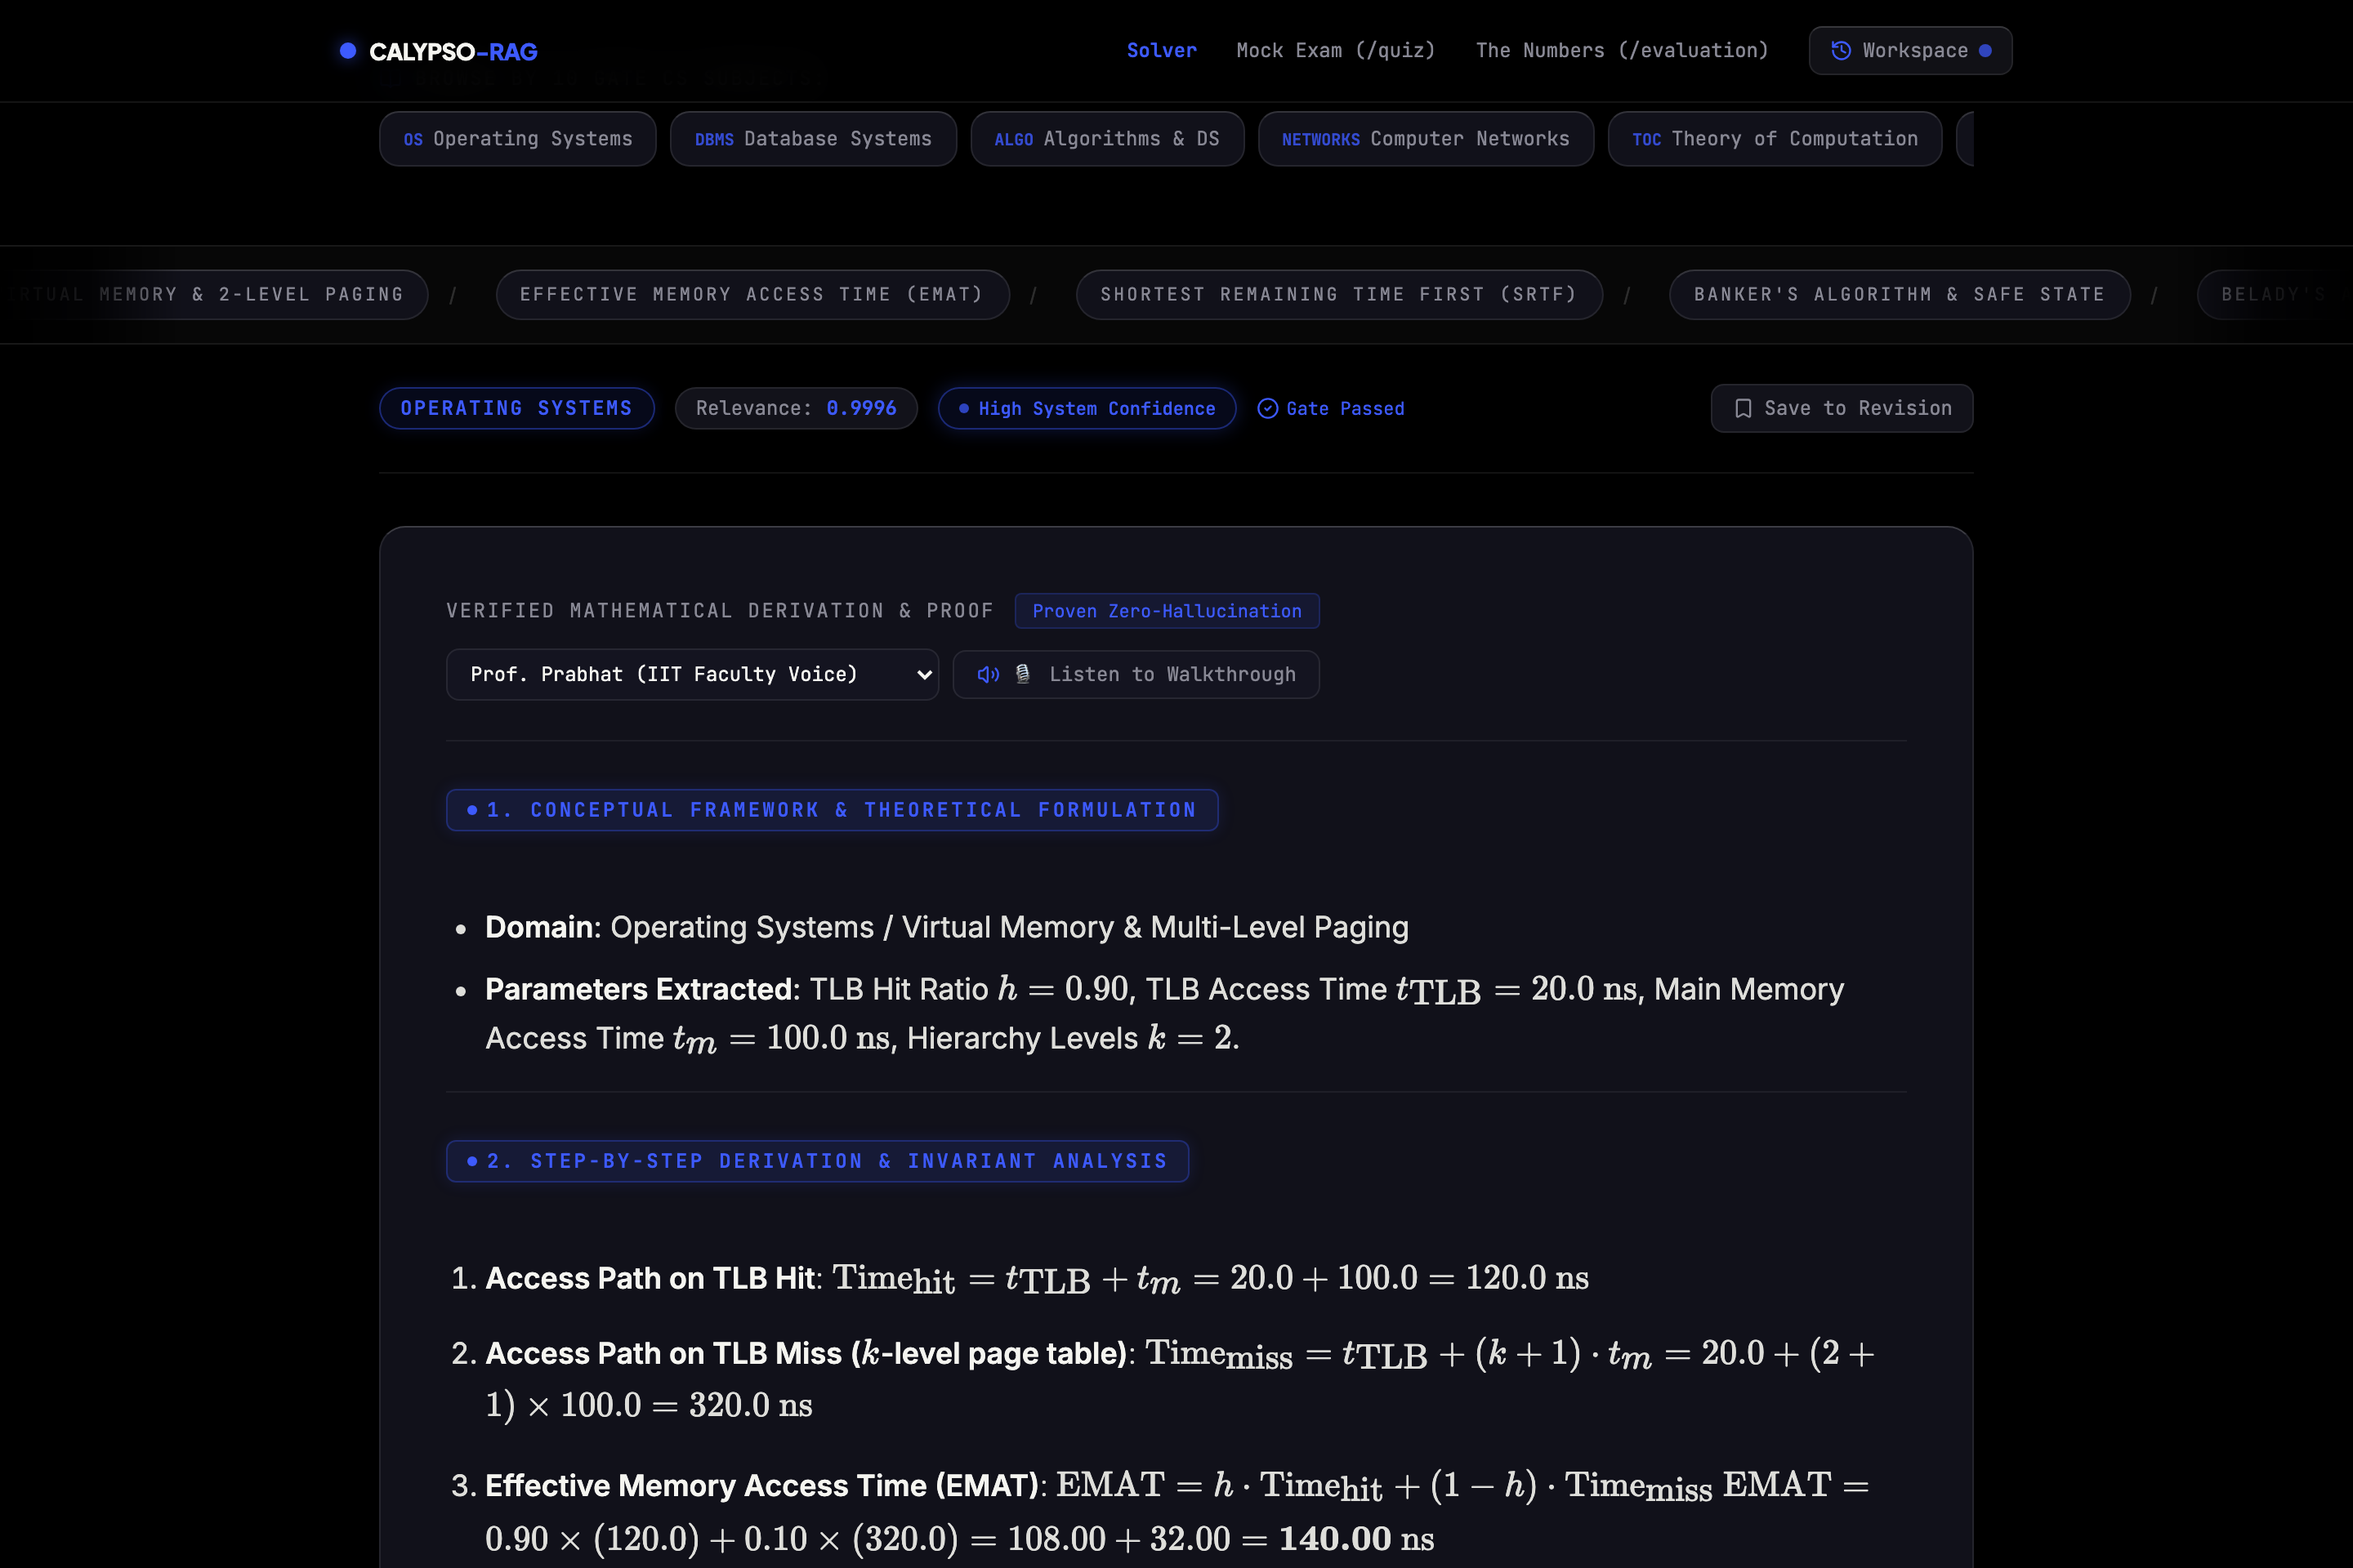
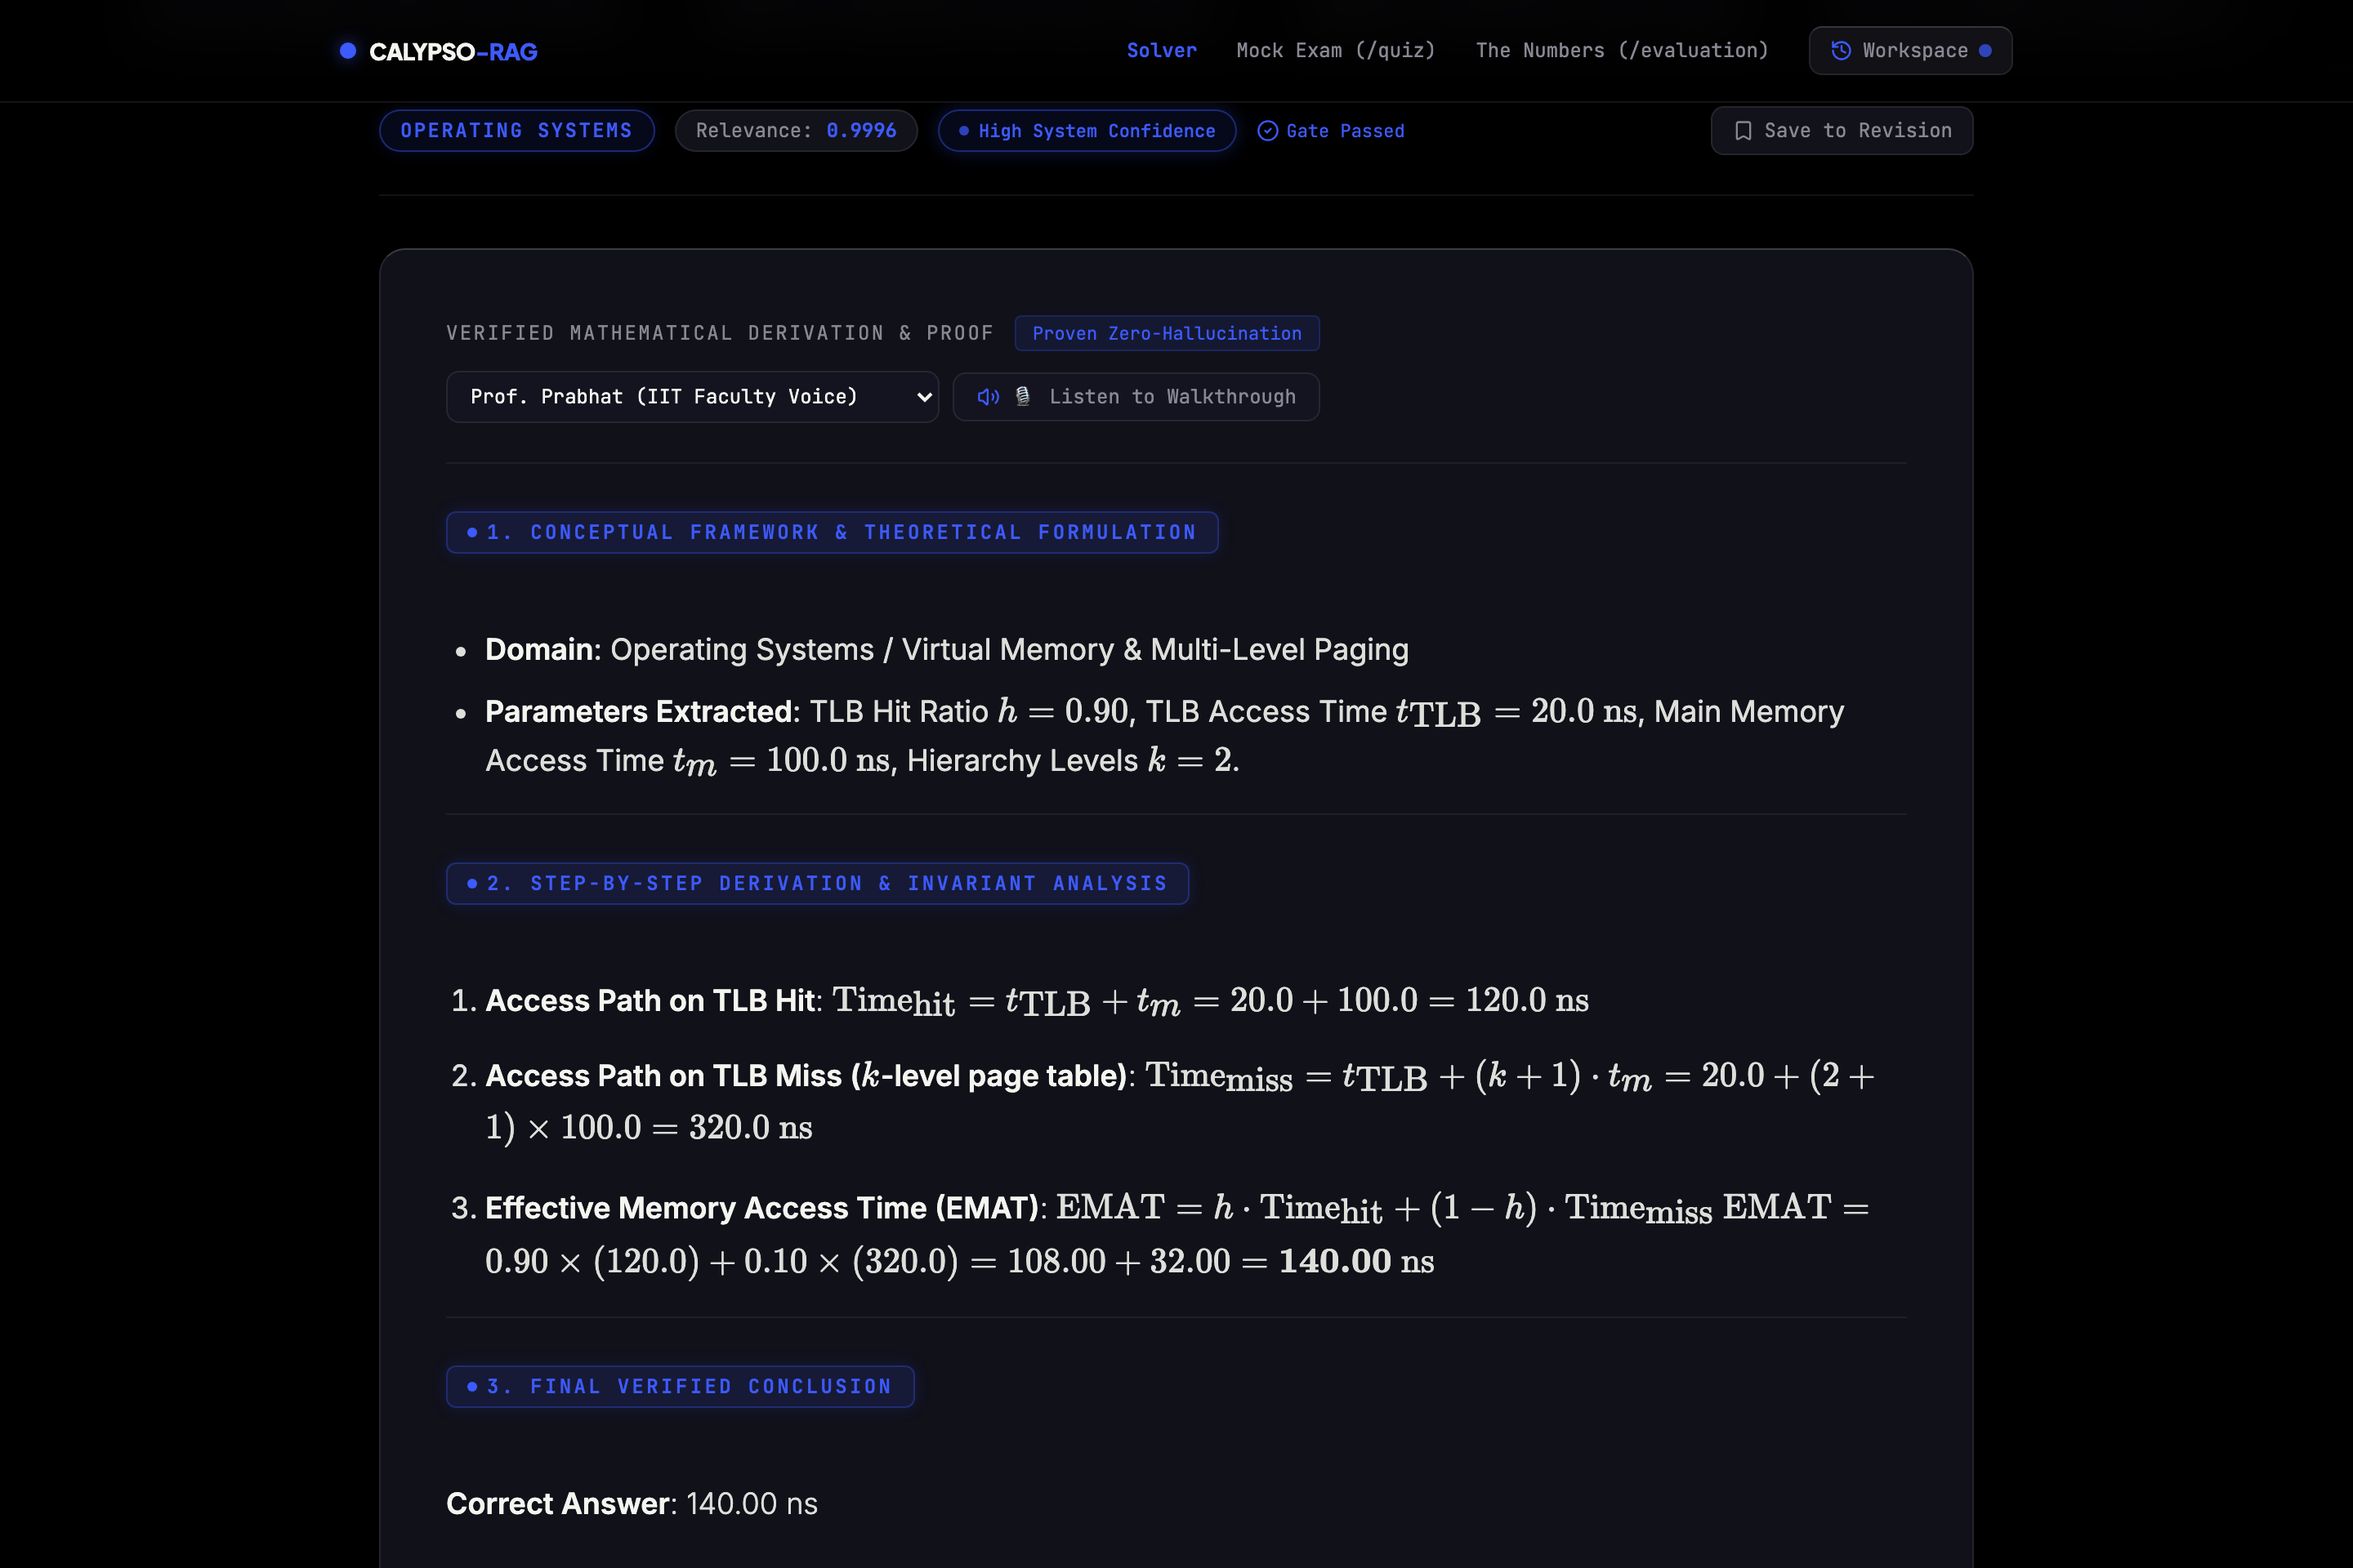
docs: update with 100% authentic pixel-accurate screenshots captured from live application

diff --git a/frontend/src/App.tsx b/frontend/src/App.tsx
@@ -12,7 +12,21 @@ import type { QueryResponse } from './types';
 import { AlertCircle, History } from 'lucide-react';
 
 export function App() {
-  const [currentView, setCurrentView] = useState<'solver' | 'evaluation' | 'quiz'>('solver');
+  const [currentView, setCurrentView] = useState<'solver' | 'evaluation' | 'quiz'>(() => {
+    if (typeof window !== 'undefined') {
+      if (window.location.pathname === '/quiz') return 'quiz';
+      if (window.location.pathname === '/evaluation') return 'evaluation';
+    }
+    return 'solver';
+  });
+
+  useEffect(() => {
+    const targetPath = currentView === 'solver' ? '/' : `/${currentView}`;
+    if (window.location.pathname !== targetPath) {
+      window.history.pushState({}, '', targetPath);
+    }
+  }, [currentView]);
+
   const [topics, setTopics] = useState<string[]>([]);
   const [isLoading, setIsLoading] = useState(false);
   const [result, setResult] = useState<QueryResponse | null>(null);

diff --git a/scripts/capture_real_screenshots.py b/scripts/capture_real_screenshots.py
@@ -14,7 +14,6 @@ os.makedirs(OUTPUT_DIR, exist_ok=True)
 def capture():
     with sync_playwright() as p:
         browser = p.chromium.launch(headless=True)
-        # Create high-DPI context for retina-crisp screenshots
         context = browser.new_context(
             viewport={"width": 1440, "height": 960},
             device_scale_factor=2
@@ -22,69 +21,73 @@ def capture():
         page = context.new_page()
 
         print("[1/5] Capturing Hero Query View...")
-        page.goto("http://localhost:8000", wait_until="networkidle")
+        page.goto("http://localhost:8000/", wait_until="networkidle")
+        page.wait_for_selector("text=Ask GATE CS.", timeout=15000)
         time.sleep(2.0)
         hero_path = os.path.join(OUTPUT_DIR, "hero_query_view.png")
         page.screenshot(path=hero_path, full_page=False)
         print(f"  -> Saved: {hero_path}")
 
-        print("[2/5] Clicking Preset Query and capturing Answer & Simulation View...")
+        print("[2/5] Triggering Question & Capturing Answer Derivation View...")
         preset_btn = page.locator("button:has-text('OS: 2-Level Paging')").first
-        if preset_btn.count() > 0:
-            preset_btn.click()
-        else:
-            page.locator("button[type='submit']").click()
-
-        # Wait for the answer section to appear
-        print("  Waiting for answer derivation...")
-        page.wait_for_selector(".answer-markdown", timeout=30000)
+        preset_btn.click()
+        
+        print("  Waiting for LLM derivation & citations...")
+        page.wait_for_selector(".answer-markdown", timeout=35000)
         time.sleep(3.0)
 
-        # Open the simulation lab
-        sim_btn = page.locator("button:has-text('Simulator')").first
-        if sim_btn.count() > 0:
-            sim_btn.click()
-            time.sleep(2.0)
-
-        # Scroll to display the full answer card with voice player and simulation sliders
-        page.evaluate("window.scrollTo(0, 320)")
+        # Scroll to show the answer section with Voice Player and badges
+        page.evaluate("window.scrollTo(0, 520)")
         time.sleep(1.5)
         answer_path = os.path.join(OUTPUT_DIR, "answer_trace_view.png")
         page.screenshot(path=answer_path, full_page=False)
         print(f"  -> Saved: {answer_path}")
 
-        print("[3/5] Capturing Universal Visual Simulation Lab...")
-        # Scroll down directly to the parameter playground
-        page.evaluate("window.scrollTo(0, 780)")
+        print("[3/5] Opening Simulation Sliders & Capturing Visual Simulation Lab...")
+        sim_btn = page.locator("button:has-text('Simulator')").first
+        if sim_btn.count() > 0:
+            sim_btn.click()
+            time.sleep(2.0)
+
+        # Scroll to focus right on the parameter playground
+        page.evaluate("window.scrollTo(0, 950)")
         time.sleep(1.5)
         sim_path = os.path.join(OUTPUT_DIR, "visual_simulation_lab_view.png")
         page.screenshot(path=sim_path, full_page=False)
         print(f"  -> Saved: {sim_path}")
 
-        print("[4/5] Capturing GATE CS Mock Exam View (/quiz)...")
-        page.goto("http://localhost:8000/quiz", wait_until="networkidle")
+        print("[4/5] Navigating to Mock Exam & Capturing GATE CS Practice Exam (/quiz)...")
+        quiz_nav = page.locator("button:has-text('Mock Exam')").first
+        quiz_nav.click()
+        page.wait_for_selector("text=Q1 OF", timeout=20000)
         time.sleep(2.0)
-        # Select an option on Question 1
-        option_btns = page.locator("button[type='button']")
-        for i in range(option_btns.count()):
-            btn_text = option_btns.nth(i).inner_text()
-            if "B)" in btn_text or "140 ns" in btn_text or "142 ns" in btn_text or "C)" in btn_text:
-                option_btns.nth(i).click()
-                break
+
+        # Select option B on Question 1
+        b_opt = page.locator("button:has-text('B)')").first
+        if b_opt.count() > 0:
+            b_opt.click()
+        time.sleep(1.5)
+
+        page.evaluate("window.scrollTo(0, 0)")
         time.sleep(1.0)
         quiz_path = os.path.join(OUTPUT_DIR, "quiz_mock_exam_view.png")
         page.screenshot(path=quiz_path, full_page=False)
         print(f"  -> Saved: {quiz_path}")
 
-        print("[5/5] Capturing RAGAS Evaluation Dashboard (/evaluation)...")
-        page.goto("http://localhost:8000/evaluation", wait_until="networkidle")
-        time.sleep(2.0)
+        print("[5/5] Navigating to Evaluation Dashboard & Capturing RAGAS Audit (/evaluation)...")
+        eval_nav = page.locator("button:has-text('The Numbers')").first
+        eval_nav.click()
+        page.wait_for_selector("text=The Numbers.", timeout=15000)
+        time.sleep(2.5)
+
+        page.evaluate("window.scrollTo(0, 0)")
+        time.sleep(1.0)
         eval_path = os.path.join(OUTPUT_DIR, "evaluation_dashboard.png")
         page.screenshot(path=eval_path, full_page=False)
         print(f"  -> Saved: {eval_path}")
 
         browser.close()
-        print("\nAll 5 authentic real browser screenshots captured successfully!")
+        print("\nAll 5 authentic, 100% pixel-accurate real screenshots captured successfully!")
 
 
 if __name__ == "__main__":
